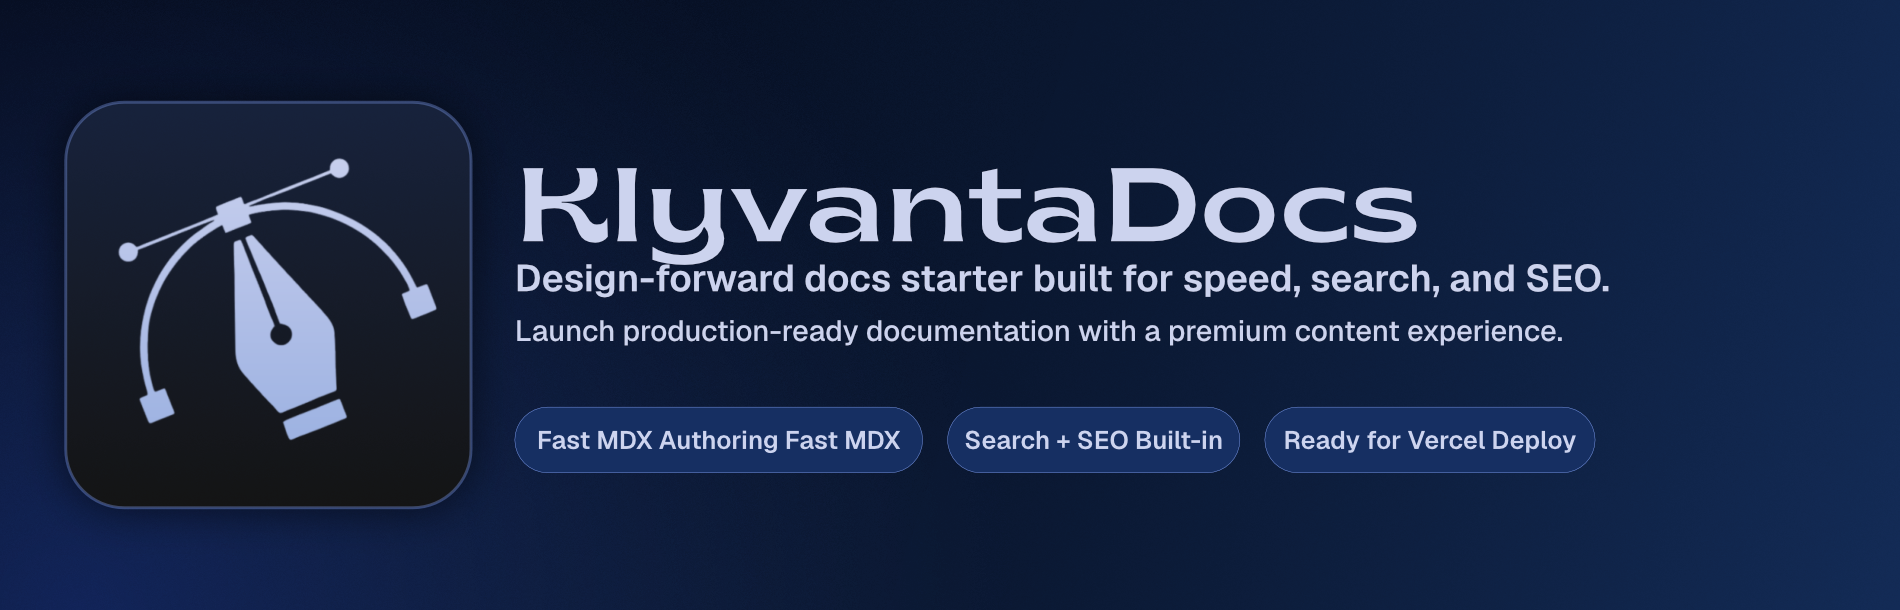
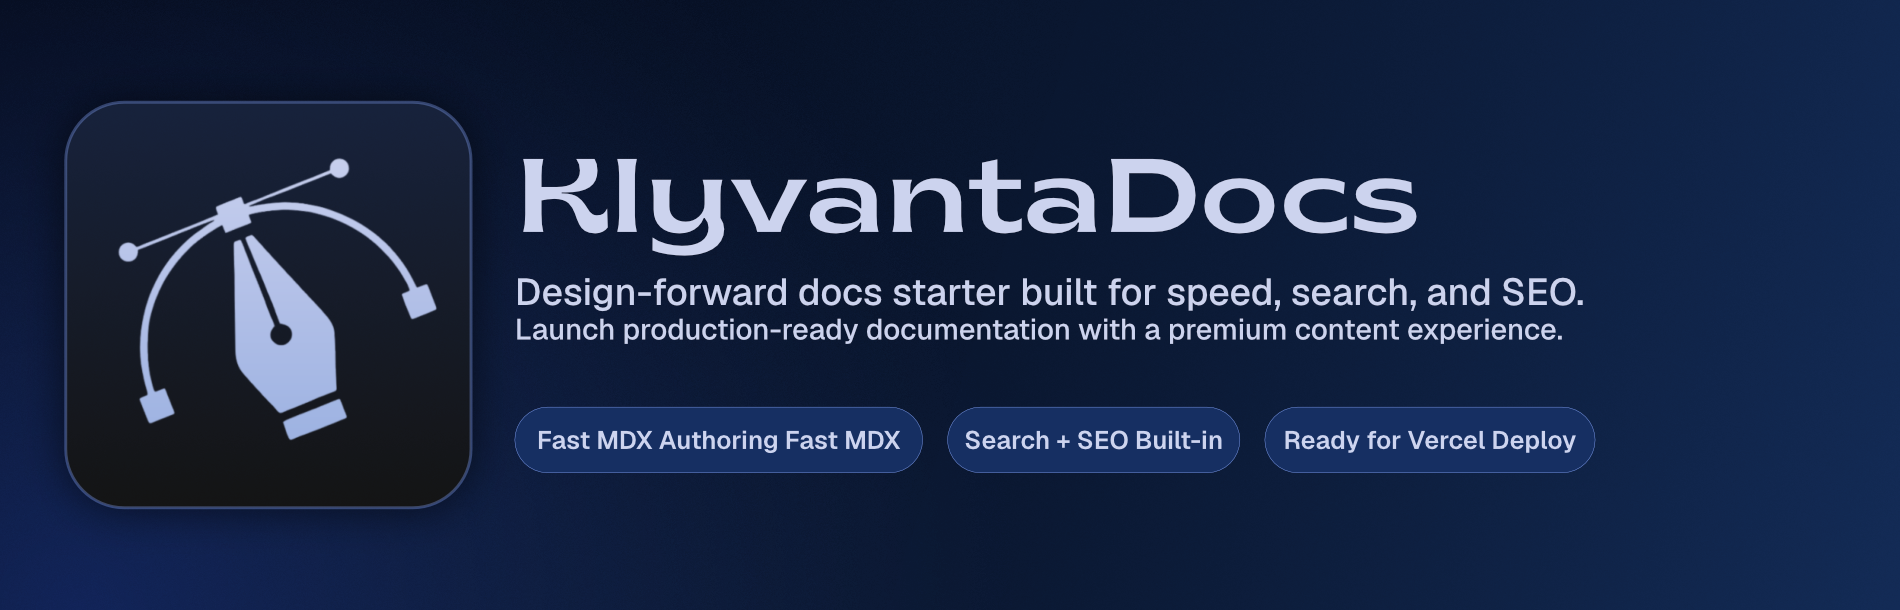
Update repo_banner.png

Changed region(s): [[0.2484, 0.2492, 0.8384, 0.4984], [0.2795, 0.5295, 0.8384, 0.5607]]

diff --git a/README_old.md b/README_old.md
@@ -1,0 +1,155 @@
+<p align="center">
+	<picture>
+		<source media="(prefers-color-scheme: dark)" srcset="./public/logo_icon_dark.png" />
+		<source media="(prefers-color-scheme: light)" srcset="./public/logo_icon_dark.png" />
+		<img src="./public/logo_icon_dark.png" alt="KlyvantaDocs" width="106" />
+	</picture>
+</p>
+
+<!-- 
+<p align="center">
+	<img src="https://raw.githubusercontent.com/rushhiii/klyvanta-docs/refs/heads/main/public/repo_banner.png.png" alt="repo_banner" width="100%" style="border-radius: 30px;" />
+</p> -->
+
+<p align="center">
+	<strong>KlyvantaDocs</strong><br />
+	Design-forward docs starter for product teams and open-source maintainers.
+</p>
+
+<p align="center">
+	<img src="https://raw.githubusercontent.com/rushhiii/klyvanta-docs/refs/heads/main/public/repo_banner.png" alt="repo_banner" width="100%" />
+</p>
+
+<p align="center">
+	<a href="https://github.com/rushhiii/docs-launchpad/actions/workflows/ci.yml"><img src="https://img.shields.io/github/actions/workflow/status/rushhiii/docs-launchpad/ci.yml?branch=main&label=CI&logo=githubactions&logoColor=white" alt="CI" /></a>
+	<a href="https://github.com/rushhiii/docs-launchpad/stargazers"><img src="https://img.shields.io/github/stars/rushhiii/docs-launchpad?label=stars" alt="GitHub stars" /></a>
+	<a href="https://github.com/rushhiii/docs-launchpad/network/members"><img src="https://img.shields.io/github/forks/rushhiii/docs-launchpad?label=forks" alt="GitHub forks" /></a>
+	<a href="https://github.com/rushhiii/docs-launchpad/issues"><img src="https://img.shields.io/github/issues/rushhiii/docs-launchpad?label=issues" alt="GitHub issues" /></a>
+	<a href="https://github.com/rushhiii/docs-launchpad/pulls"><img src="https://img.shields.io/github/issues-pr/rushhiii/docs-launchpad?label=pull%20requests" alt="GitHub pull requests" /></a>
+	<a href="https://github.com/rushhiii/docs-launchpad/commits/main"><img src="https://img.shields.io/github/last-commit/rushhiii/docs-launchpad?label=last%20commit" alt="Last commit" /></a>
+	<a href="https://github.com/rushhiii/docs-launchpad/graphs/commit-activity"><img src="https://img.shields.io/github/commit-activity/m/rushhiii/docs-launchpad?label=commit%20activity" alt="Commit activity" /></a>
+	<a href="https://github.com/rushhiii/docs-launchpad"><img src="https://img.shields.io/github/repo-size/rushhiii/docs-launchpad?label=repo%20size" alt="Repository size" /></a>
+</p>
+
+<p align="center">
+	<img src="https://img.shields.io/badge/Next.js-16-000000?logo=nextdotjs&logoColor=white" alt="Next.js" />
+	<img src="https://img.shields.io/badge/React-19-149ECA?logo=react&logoColor=white" alt="React" />
+	<img src="https://img.shields.io/badge/TypeScript-5.8-3178C6?logo=typescript&logoColor=white" alt="TypeScript" />
+	<img src="https://img.shields.io/badge/Tailwind_CSS-3.4-06B6D4?logo=tailwindcss&logoColor=white" alt="Tailwind CSS" />
+	<img src="https://img.shields.io/badge/Content-MD%2FMDX-22324D" alt="MDX" />
+	<img src="https://img.shields.io/badge/Node.js-20%2B-339933?logo=nodedotjs&logoColor=white" alt="Node.js" />
+	<img src="https://img.shields.io/badge/Lint-ESLint-4B32C3?logo=eslint&logoColor=white" alt="ESLint" />
+	<img src="https://img.shields.io/badge/Format-Prettier-F7B93E?logo=prettier&logoColor=111827" alt="Prettier" />
+	<img src="https://img.shields.io/badge/Deploy-Vercel-111827?logo=vercel&logoColor=white" alt="Vercel" />
+</p>
+
+<p align="center">
+	<a href="#quick-start">Quick Start</a> |
+	<a href="#features">Features</a> |
+	<a href="#project-structure">Project Structure</a> |
+	<a href="#community-and-governance">Community</a> |
+	<a href="#deployment">Deployment</a> |
+	<a href="#affinity-banner-workflow">Affinity Banner Workflow</a>
+</p>
+
+## Why KlyvantaDocs?
+
+KlyvantaDocs helps you ship premium documentation fast, with a polished docs shell, strong SEO defaults, and frictionless MDX authoring.
+
+Use it for:
+
+- Product documentation
+- SDK and API guides
+- Internal knowledge bases
+- Open-source docs websites
+
+## Features
+
+- App Router architecture with Next.js 16 + React 19
+- MD/MDX docs content with frontmatter-driven metadata and ordering
+- Responsive docs UI with topbar, sidebar, TOC, and command palette search
+- Built-in sitemap and robots routes for search indexing
+- Open Graph and Twitter metadata generation
+- Theme-aware branding support (light/dark logo variants)
+- CI workflow for install, lint, typecheck, and build verification
+
+## Quick Start
+
+```bash
+npm install
+npm run dev
+```
+
+Open http://localhost:3000/docs/home
+
+## Scripts
+
+- `npm run dev` - start local dev server
+- `npm run build` - production build
+- `npm run start` - run production build locally
+- `npm run lint` - run ESLint checks
+- `npm run typecheck` - run TypeScript checks
+- `npm run format` - check formatting with Prettier
+- `npm run format:write` - auto-format files with Prettier
+
+## Environment Variables
+
+See `.env.example`.
+
+- `NEXT_PUBLIC_SITE_URL` (required): canonical metadata and sitemap base URL
+- `GOOGLE_SITE_VERIFICATION` (optional): Google Search Console verification
+- `BING_SITE_VERIFICATION` (optional): Bing Webmaster verification
+
+## Project Structure
+
+- `src/app` - Next.js routes, metadata routes, and docs pages
+- `src/components/docs` - reusable docs UI components
+- `src/lib` - docs/content loaders, utilities, and helpers
+- `content/docs` - Markdown and MDX content files
+- `public` - logos, fonts, and banner assets
+- `.github/workflows/ci.yml` - CI pipeline
+
+## Deployment
+
+1. Import this repository in Vercel.
+2. Set environment variables from `.env.example`.
+3. Deploy.
+4. Verify:
+- `/robots.txt` is reachable
+- `/sitemap.xml` is reachable
+- canonical and social metadata render correctly
+
+## Affinity Banner Workflow
+
+Use this workflow in Affinity Designer to create a homepage banner that matches your existing logo style:
+
+1. Create a canvas at `1800 x 620`.
+2. Add a dark gradient background: `#030816 -> #0a1730 -> #132b56`.
+3. Add two radial glows:
+- top-right glow `#4f83ff` at `30-35%` opacity
+- lower-left glow `#2f5de6` at `25-30%` opacity
+4. Add a subtle grid/noise texture at `10-18%` opacity.
+5. Place your logo icon on the left inside a rounded rectangle panel.
+6. Add headline text on the right: `KlyvantaDocs`.
+7. Add a one-line subtitle and 2-3 pill chips (for example: `Fast MDX Authoring`, `Search + SEO Built-in`, `Ready for Vercel Deploy`).
+8. Export as `WebP` (quality 80-90) or `PNG` and save as `public/klyvantadocs-home-banner.webp`.
+9. If you export a new format, update `bannerImage` in `content/docs/index.mdx`.
+
+
+## Branding Notes
+
+- All assets are in the `public` folder.
+- To design something similar, the Affinity `.af` files are in `/public/affinity` (`public/affinity_templets` in this repository). Download Affinity Designer: https://affinity.serif.com/en-us/designer/
+
+## Community and Governance
+
+To keep this repository reliable, product-focused, and easy to maintain at scale:
+
+- `CODE_OF_CONDUCT.md` defines expected behavior and community standards.
+- `CONTRIBUTING.md` defines contribution flow, quality checks, and product principles.
+- `SECURITY.md` defines supported versions and responsible vulnerability reporting.
+- `LICENSE` defines usage rights under MIT.
+
+## License
+
+See [MIT LICENSE](./LICENSE).
